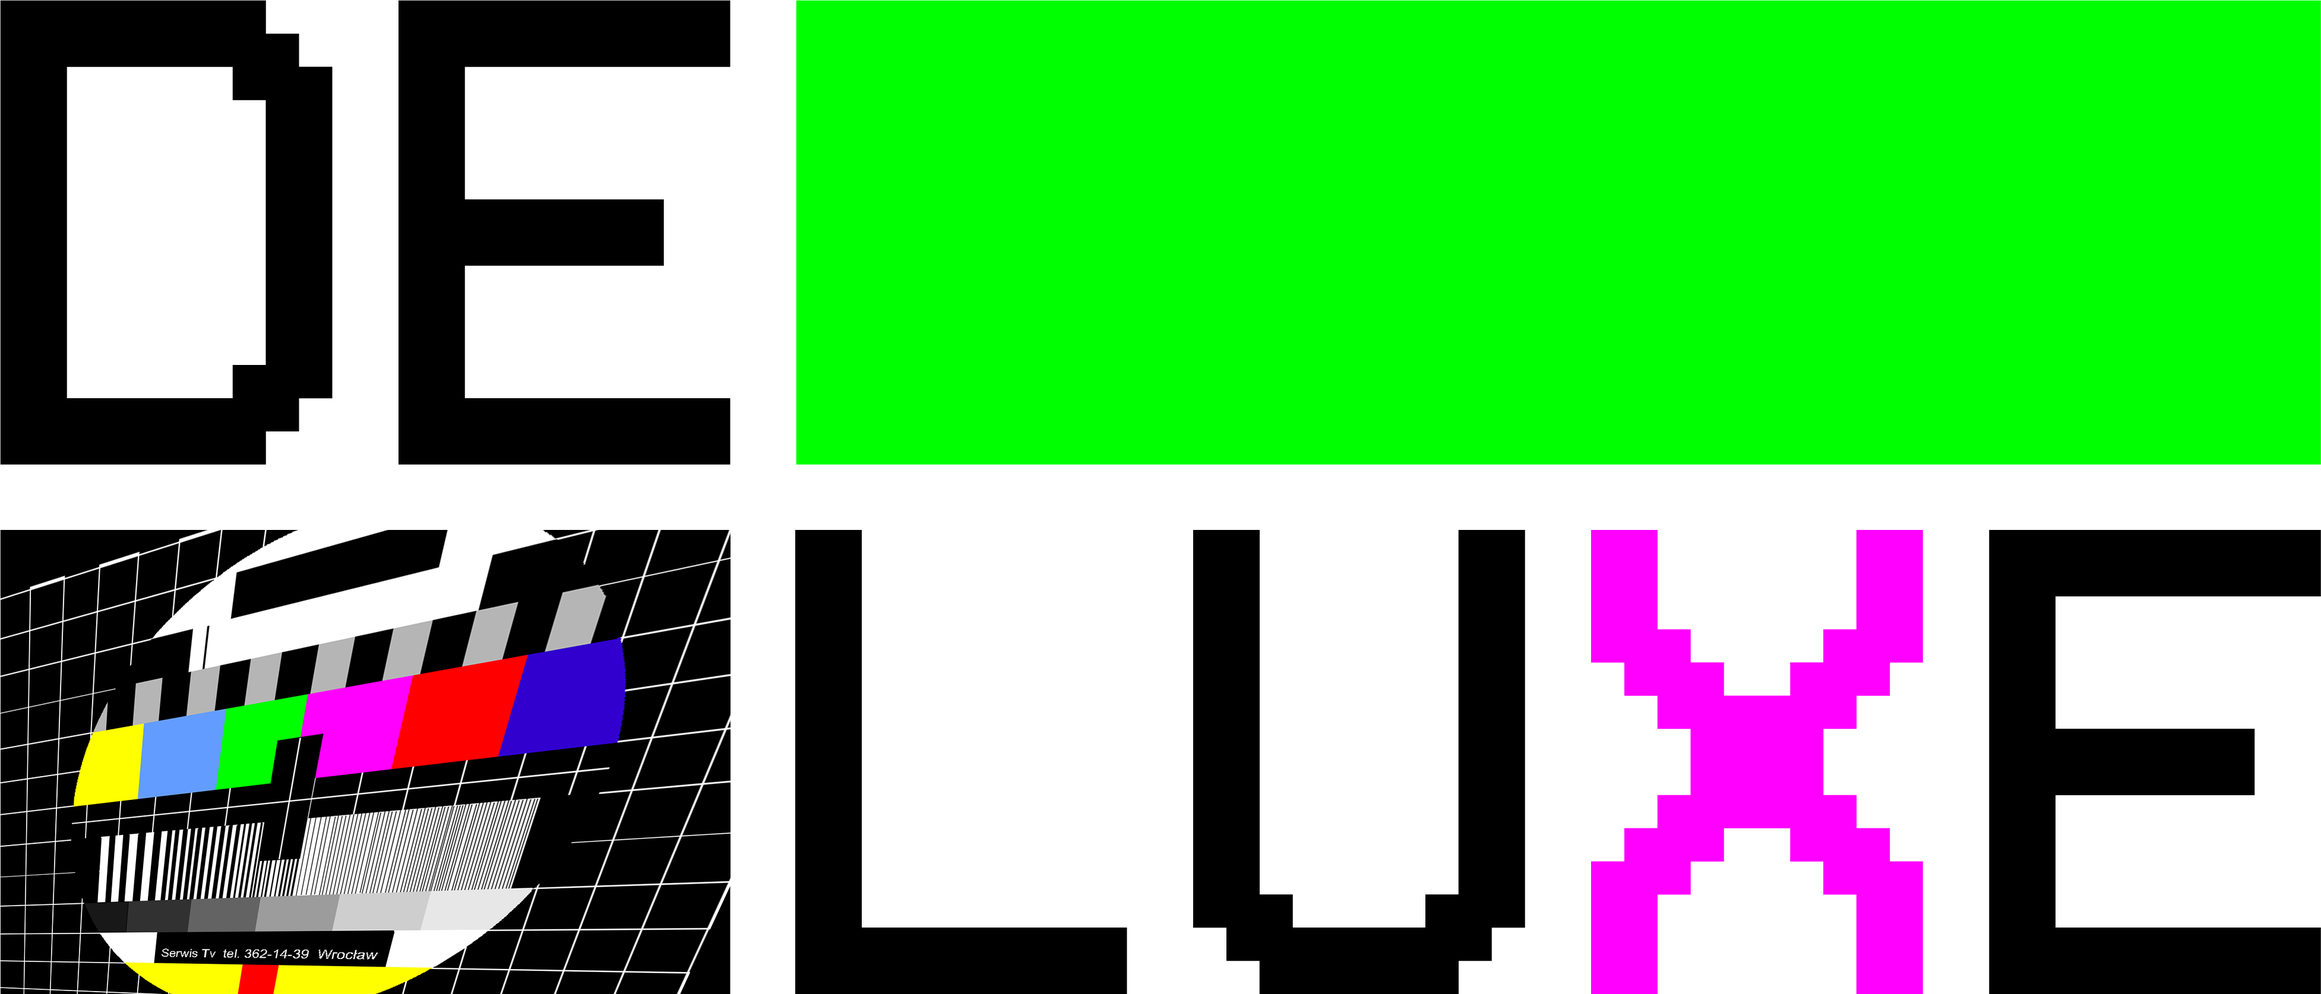
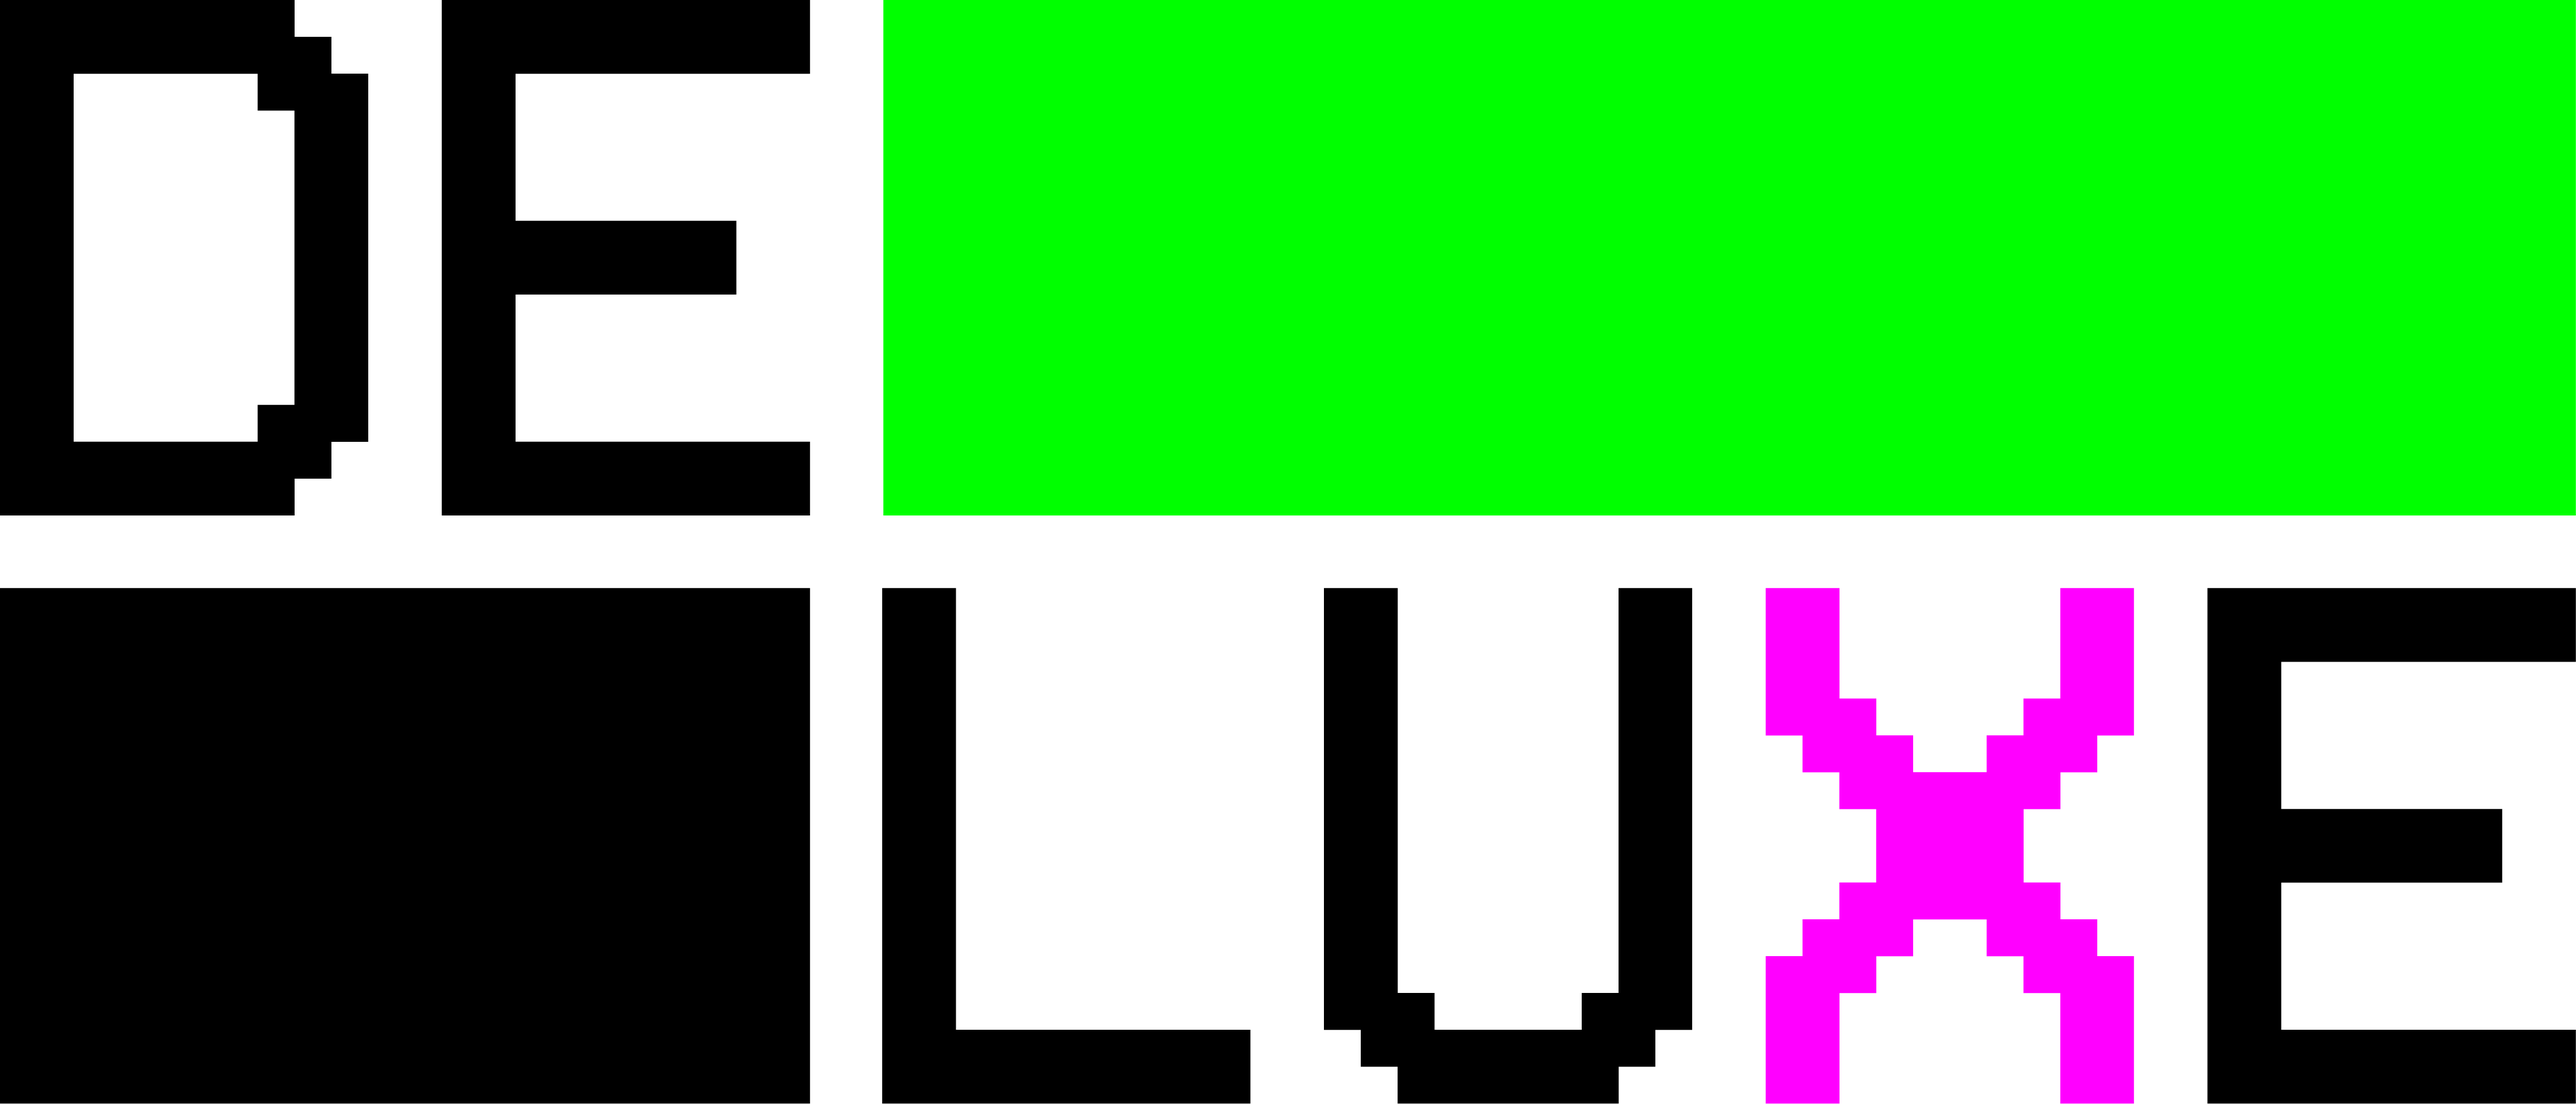
site finalise reste encore quelques ajouts

Changed region(s): [[0.0, 0.5278, 0.3122, 1.0], [0.0, 0.6209, 0.0312, 0.683], [0.281, 0.7761, 0.3122, 0.8072]]

diff --git a/index.html b/index.html
@@ -32,8 +32,13 @@
         </header>
 
         <main class="mt-50">
-            <div>
-                <img id="land" src="img/Deluxe-1-2.png" alt="">
+            <div id="landing">
+                <img id="land1" class="land" src="img/Deluxe-1-2.png" alt="">
+                <img id="land2" class="land none" src="img/Deluxe-2.png" alt="">
+                <img id="land3" class="land none" src="img/Deluxe-3.png" alt="">
+                <img id="land4" class="land none" src="img/Deluxe-6.png" alt="">
+                <img id="land4" class="land none" src="img/Deluxe-5.png" alt="">
+                <img id="land5" class="land none" src="img/Deluxe-7.png" alt="">
             </div>
 
             <section>
@@ -56,9 +61,35 @@
                     </div>
                 </div>
                 <div class="mt-20">
-                    <p id="txt1" class="text courier none"><span class="vcr">Y-1 // PRJ-1.</span> It consisted in imagining an awareness campaign about a certain type of harrassment. My job, in collaboration with graphic designers, was to use the various infographics they had produced to create a general infographic in the form of a onepage site. <a class="link" href="">"visit site"</a></p>
-                    <p id="txt2" class="text courier none"><span class="vcr">Y-1 // PRJ-2</span> Je devais réaliser une typographie ainsi qu'un site promotionnel pour un produit de consomation afin de la mettre en valeur. Pour cela, j'ai choisi de réaliser le site d'une marque de bière au miel fictive imaginé et créée par mes soins. <a class="link" href="">"visit site"</a></p>
-                    <p id="txt3" class="text courier none"><span class="vcr">Y-1 // PRJ-3.</span> Le projet consistait à créer un site onepage pour présenter l'œuvre "Matin Brun" de Franck Pavloff. J'ai créer une page artistique avec une approche assez sombre afin de coller au récit et à la manière dont je l'ai interpreté. <a class="link" href="">"visit site"</a></p>
+                    <p id="txt1" class="text courier none"><span class="vcr">Y-1 // PRJ-1.</span> It consisted in imagining an awareness campaign about a certain type of harrassment. My job, in collaboration with graphic designers, was to use the various infographics they had produced to create a general infographic in the form of a onepage site. <a class="link" href="https://lucadeluxe.github.io/1-MP-1/">"visit site"</a></p>
+                    <p id="txt2" class="text courier none"><span class="vcr">Y-1 // PRJ-2</span> Je devais réaliser une typographie ainsi qu'un site promotionnel pour un produit de consomation afin de la mettre en valeur. Pour cela, j'ai choisi de réaliser le site d'une marque de bière au miel fictive imaginé et créée par mes soins. <a class="link" href="https://lucadeluxe.github.io/1-MP-2/">"visit site"</a></p>
+                    <p id="txt3" class="text courier none"><span class="vcr">Y-1 // PRJ-3.</span> Le projet consistait à créer un site onepage pour présenter l'œuvre "Matin Brun" de Franck Pavloff. J'ai créer une page artistique avec une approche assez sombre afin de coller au récit et à la manière dont je l'ai interpreté. <a class="link" href="https://lucadeluxe.github.io/1-MP-3/">"visit site"</a></p>
+                </div>
+            </section>
+
+            <section>
+                <div class="mt-100">
+                    <div class="flex space-between">
+                        <h2 class="vcr green inline"><nobr>>PROFESSIONAL PROJECTS</nobr></h2>
+                        <div id="trait"></div>
+                    </div>
+                </div>
+            
+                <div class="wrapper mt-50">
+                    <div id="">
+                        <img id="" class="crop blurred" src="">
+                    </div>
+                    <div id="">
+                        <img id="" class="crop blurred" src="">
+                    </div>
+                    <div id="">
+                        <img id="" class="crop blurred" src="">
+                    </div>
+                </div>
+                <div class="mt-20">
+                    <p id="txt1" class="text courier none"><span class="vcr">UI UX DESIGN</span> I carried out an almost complete redesign of the website CGI37.com. Working page by page, trying to modernize the site while remaining in the spirit of the company according to my boss's requests <a class="link" href="https://lucadeluxe.github.io/1-MP-1/">"visit site"</a></p>
+                    <p id="txt2" class="text courier none"><span class="vcr">WEB DEVELOPEMENT</span> Je devais réaliser une typographie ainsi qu'un site promotionnel pour un produit de consomation afin de la mettre en valeur. Pour cela, j'ai choisi de réaliser le site d'une marque de bière au miel fictive imaginé et créée par mes soins. <a class="link" href="https://lucadeluxe.github.io/1-MP-2/">"visit site"</a></p>
+                    <p id="txt3" class="text courier none"><span class="vcr">PRICE CALCULATOR</span> Le projet consistait à créer un site onepage pour présenter l'œuvre "Matin Brun" de Franck Pavloff. J'ai créer une page artistique avec une approche assez sombre afin de coller au récit et à la manière dont je l'ai interpreté. <a class="link" href="https://lucadeluxe.github.io/1-MP-3/">"visit site"</a></p>
                 </div>
             </section>
         </main>

diff --git a/app.js b/app.js
@@ -109,3 +109,29 @@ prj3.addEventListener("mouseover", function(){
     imgprj1.style.filter = "blur(5px)";
     imgprj2.style.filter = "blur(5px)";
 });
+
+let land1 = document.getElementById("land1");
+let land2 = document.getElementById("land2");
+let land3 = document.getElementById("land3");
+let land4 = document.getElementById("land4");
+let land5 = document.getElementById("land5");
+land1.addEventListener("click", function(){
+    land1.style.display = "none";
+    land2.style.display = "block";
+});
+land2.addEventListener("click", function(){
+    land2.style.display = "none";
+    land3.style.display = "block";
+});
+land3.addEventListener("click", function(){
+    land3.style.display = "none";
+    land4.style.display = "block";
+});
+land4.addEventListener("click", function(){
+    land4.style.display = "none";
+    land5.style.display = "block";
+});
+land5.addEventListener("click", function(){
+    land5.style.display = "none";
+    land1.style.display = "block";
+});

diff --git a/style.css b/style.css
@@ -142,8 +142,13 @@
 
 /* main */
 
-#land {
+.land {
     width: 100%;
+    cursor: help;
+}
+
+#landing {
+    height: 500px;
 }
 
 #trait {
